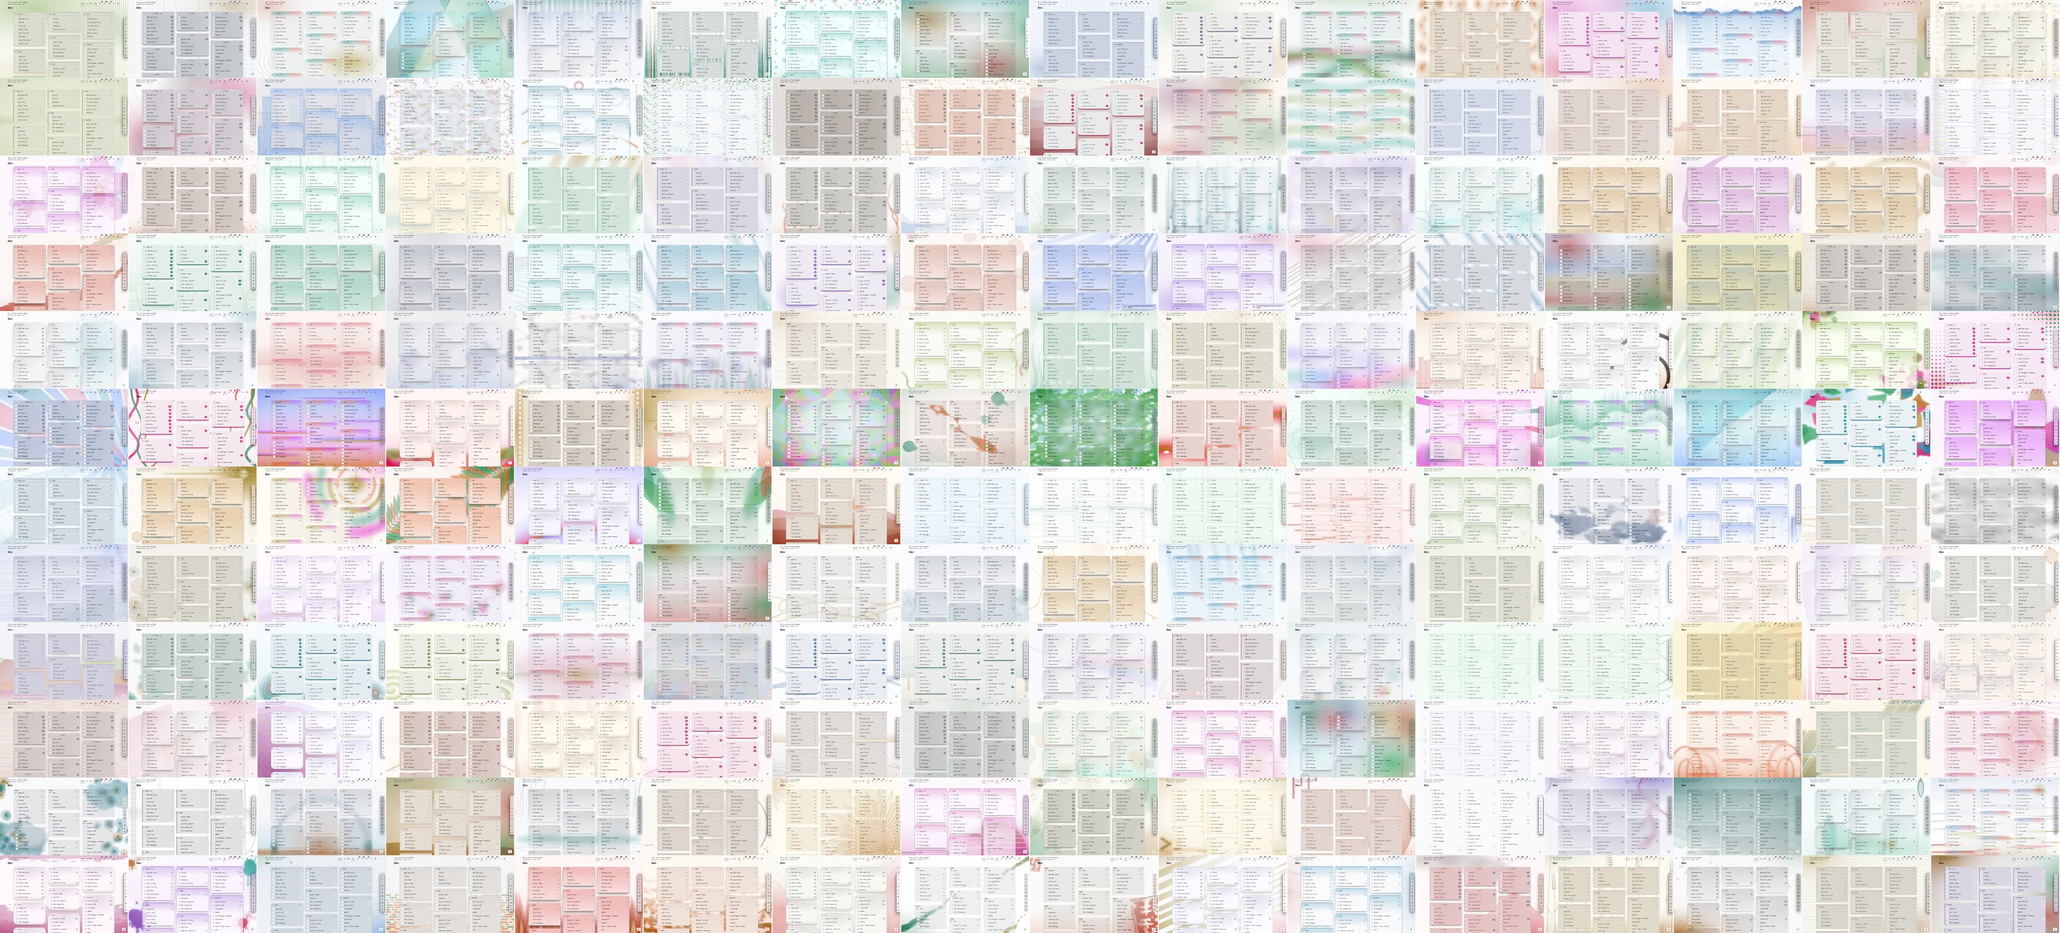
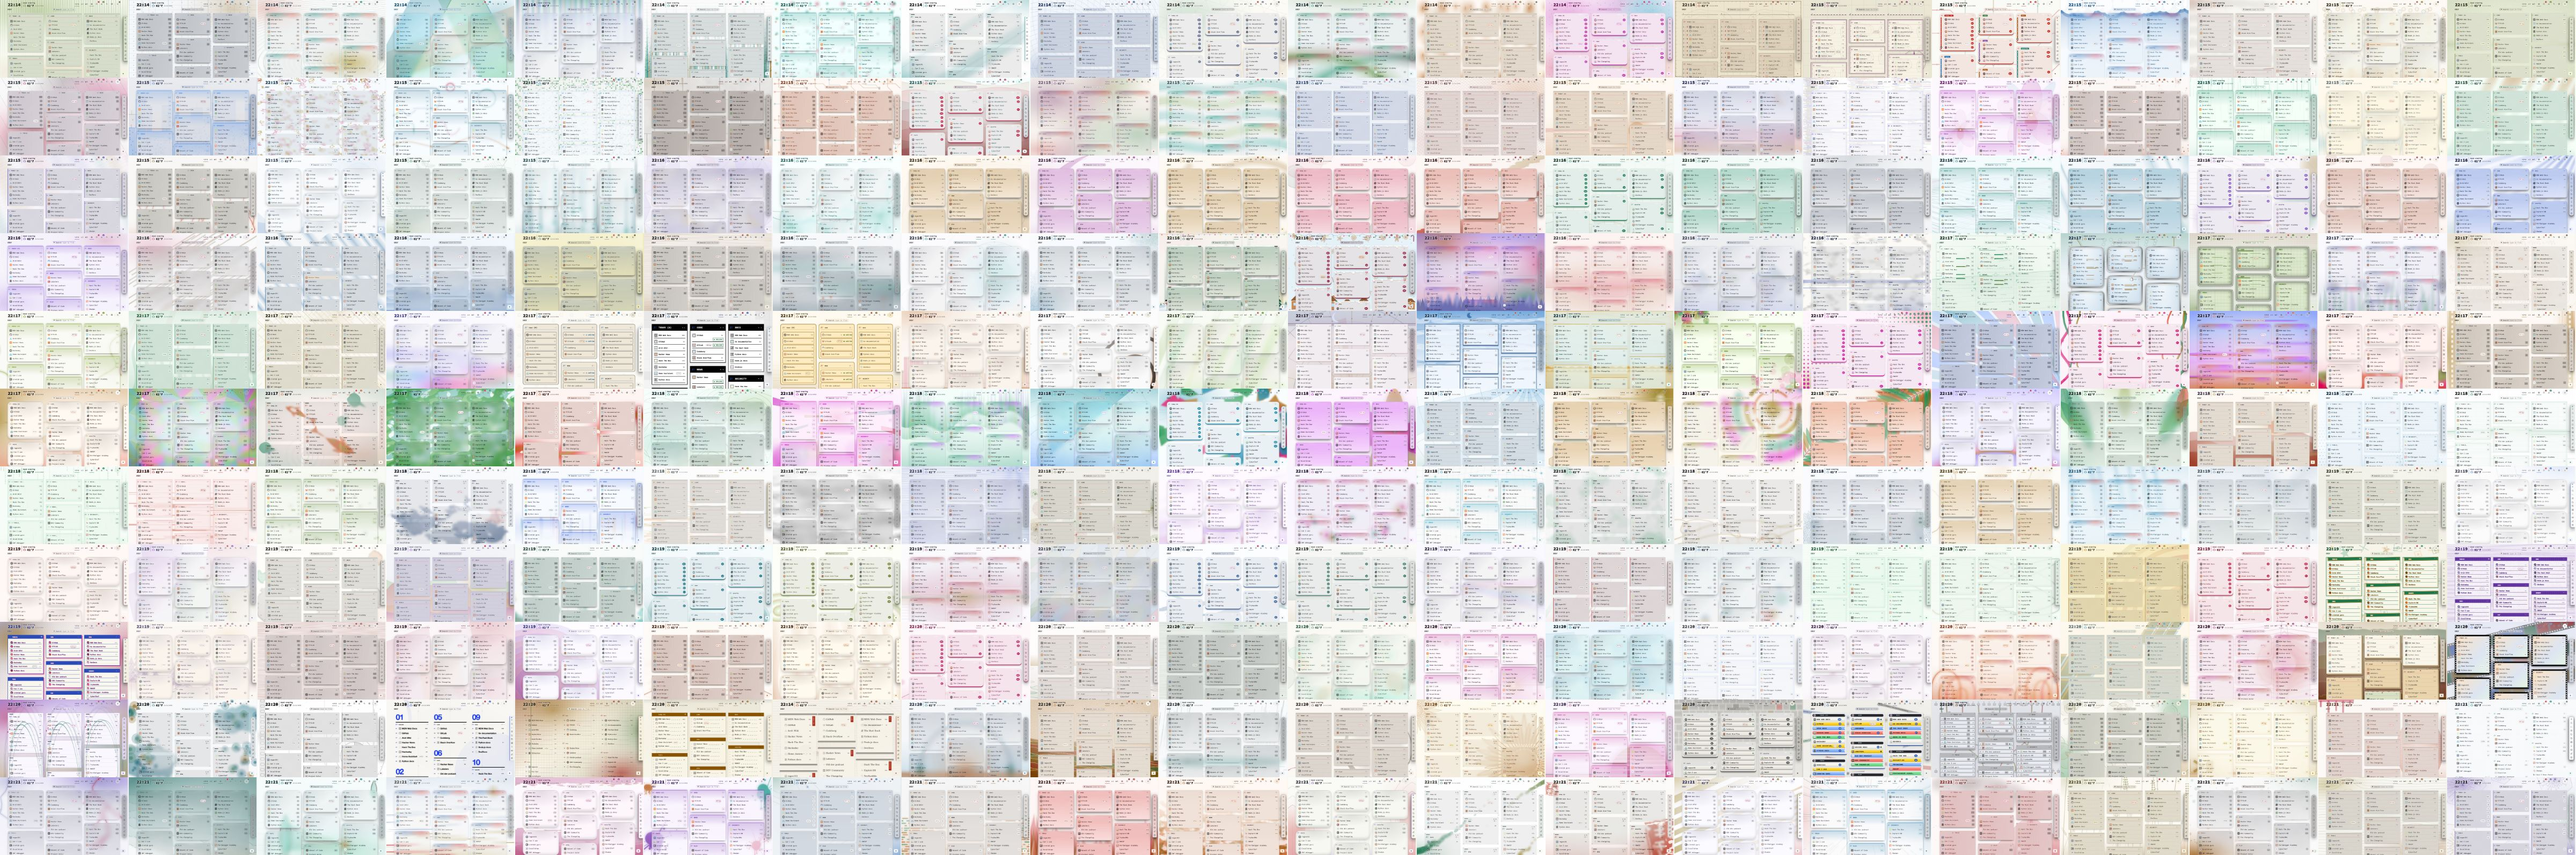
README collages of all 220 families, and the Layout picture with dropdowns

diff --git a/README.md b/README.md
@@ -28,15 +28,15 @@ It started because my bookmark bar had become a graveyard, and grew into one pla
 <summary><b>See every theme</b> — the dark and light halves of every family, each on the same dashboard</summary>
 
 <p align="center">
-  <img src="screenshots/nextdash-themes-dark.jpg" alt="192 of the 220 dark themes, each shown on the same dashboard" width="100%" />
+  <img src="screenshots/nextdash-themes-dark.jpg" alt="All 220 dark themes, each shown on the same dashboard" width="100%" />
   <br />
-  <sub><b>192 of the 220 dark themes</b> — the same dashboard in every theme, each with its own material and backdrop. The eight newer theme groups are not in this picture.</sub>
+  <sub><b>All 220 dark themes</b> — the same dashboard in every theme, each with its own material and backdrop.</sub>
 </p>
 
 <p align="center">
-  <img src="screenshots/nextdash-themes-light.jpg" alt="192 of the 220 light themes, each shown on the same dashboard" width="100%" />
+  <img src="screenshots/nextdash-themes-light.jpg" alt="All 220 light themes, each shown on the same dashboard" width="100%" />
   <br />
-  <sub><b>192 of the 220 light themes</b> — the light half of each family. The eight newer theme groups are not in this picture.</sub>
+  <sub><b>All 220 light themes</b> — the light half of each family.</sub>
 </p>
 
 </details>

diff --git a/MANUAL.md b/MANUAL.md
@@ -4302,7 +4302,7 @@ Type is in the **Type** panel on the **Theme** tab; everything behind the bookma
 
 Small drawings beside the shape settings show what a value looks like.
 
-<p align="center"><img src="screenshots/manual.md/16-layout-spacing.jpg" alt="Appearance, Layout: the Bookmarks layout panel with a card for every choice of Category spacing, Space between columns and Page margins, each with a small drawing" width="520"></p>
+<p align="center"><img src="screenshots/manual.md/16-layout-spacing.jpg" alt="Appearance, Layout: the Bookmarks layout panel with Columns per row, Category spacing, Space between columns and Page margins as dropdowns, each with a small drawing of the choice in force" width="520"></p>
 <p align="center"><sub>Appearance → Layout: the room down the page, the room across it and the band at the edges are three settings. *Follow the theme* is the first choice of the first two.</sub></p>
 
 **Rows** tab — panels **Favicons**, **Category header** and **Bookmark display**. The first two lines are the Favicons panel; **Favicon harmonization** (Muted, Tinted or Overlay, with an intensity, stored per theme) is in it too.
